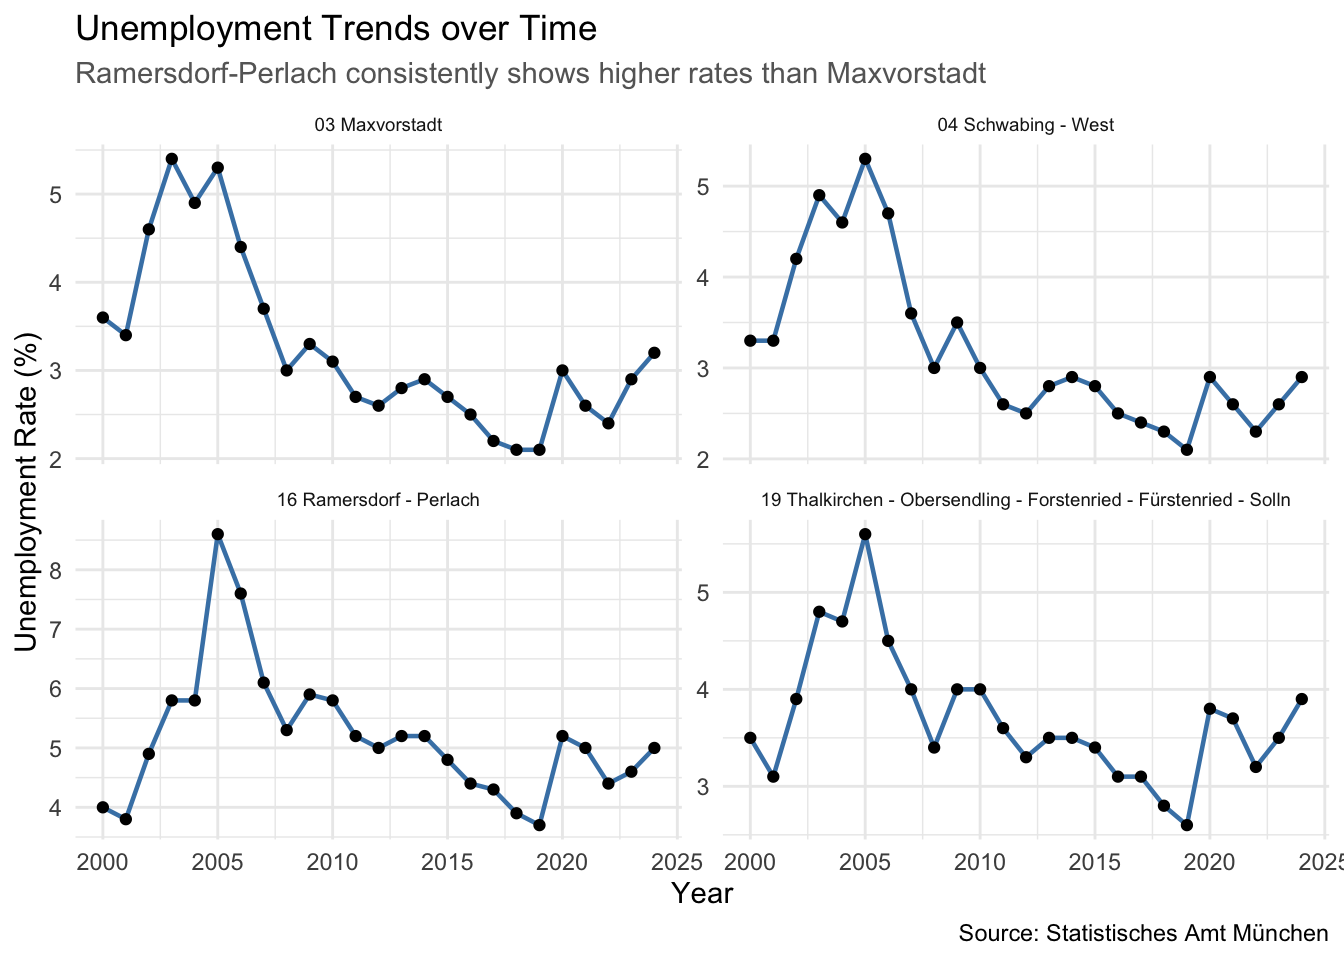
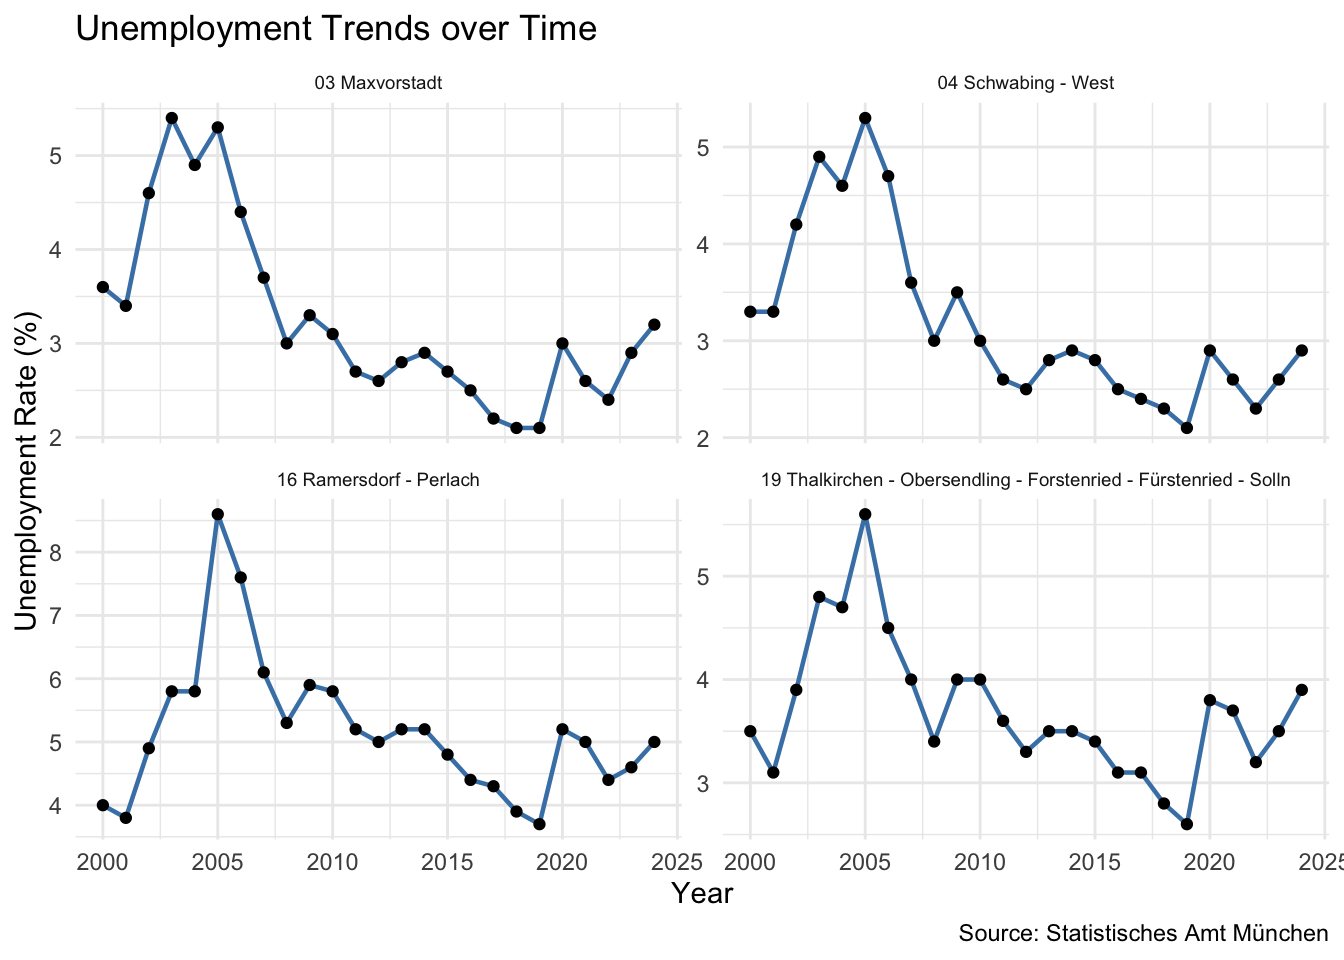
Updated proposal

diff --git a/docs/reflection_log.html b/docs/reflection_log.html
@@ -317,7 +317,7 @@ Figure&nbsp;1: Bill length vs Bill depth across penguin species
 <ol type="1">
 <li><em>What question did your data raise that you hadn’t anticipated at the start? Do you think it’s worth pursuing, and why?</em></li>
 </ol>
-<p>The data showed an abnormal high rate in the year 2005. The dataset alone couldn’t explain it and so we decided to research. It turned out to be this high because of a reform that counted the unemploymed and people on welfare into one number starting in 2005. After this the new rules were introduced where receiving welfare became stricter and so the numbers decreased again. We deceided to not pursue this question or include it into one of our RQs since it can’t be explained by our data alone and we would have to use sources from outside.</p>
+<p>The data showed an abnormal high rate in the year 2005. The dataset alone couldn’t explain it and so we decided to research. It turned out to be this high because of a reform that counted the unemployed and people on welfare into one number starting in 2005. After this new rules were introduced where receiving welfare became stricter and so the numbers decreased again. We decided to not pursue this question or include it into one of our RQs since it can’t be explained by our data alone and we would have to use sources from outside.</p>
 </section>
 <section id="week-9---reproducibility-open-data-renv" class="level2">
 <h2 class="anchored" data-anchor-id="week-9---reproducibility-open-data-renv">Week 9 - Reproducibility, Open Data &amp; renv</h2>